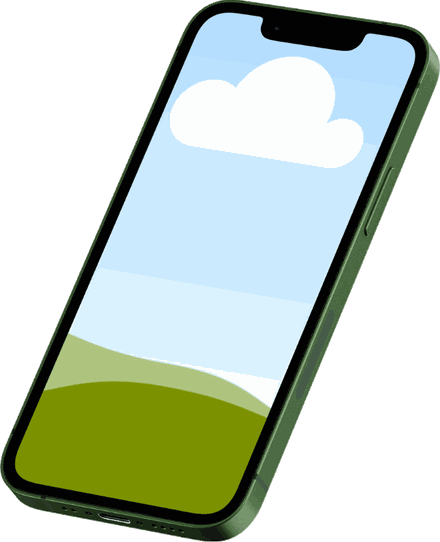
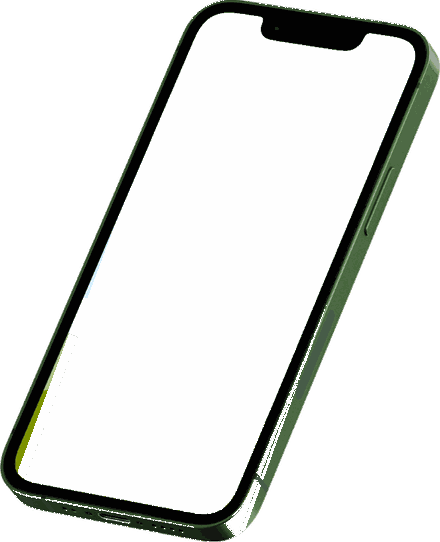
fix(вики): телефон в карточке встал в пустое место у списка шагов и не двигает текст
Прошлый заход был неправильный: телефон стоял колонкой на всю карточку и ужимал
заголовок с описанием. Текст важнее картинки — теперь витрина стоит В ОДНОЙ
СТРОКЕ со списком шагов, ровно в том пустом месте, которое остаётся справа от
коротких строк «1…8». Заголовок, описание, блок «Где вставлен» и кнопка снова во
всю ширину карточки.

Экран телефона сделан белым — как на образце. Красились не прямоугольником, а
пикселями обоев внутри четырёхугольника экрана: у экрана скруглённые углы, и
прямоугольник оставил бы по ним серпики старых обоев. Тёмное (вырез, кромка
стекла) не тронуто, иначе пропала бы «чёлка».

Значок приложения лежит на белом экране в той же плоскости, что и раньше:
наклон снят с самого рендера, поэтому плитка повторяет ракурс корпуса.

Проверено в браузере на 1440, 760 и 430 пикселях: описание занимает всю ширину,
телефон стоит у списка и ничего не сдвигает, на узкой карточке витрина уходит.

diff --git a/src/components/wiki/WikiTrainers.jsx b/src/components/wiki/WikiTrainers.jsx
@@ -138,8 +138,7 @@ export default function WikiTrainers({ base, headers, onOpenArticle = null }) {
                         const card = TRAINER_CARDS.find((c) => c.key === trainer.key);
                         const articles = usages?.[trainer.key] || [];
                         return (
-                            <article key={trainer.key} className={`${iosCard} flex gap-4 p-4`}>
-                              <div className="flex min-w-0 flex-1 flex-col gap-3">
+                            <article key={trainer.key} className={`${iosCard} flex flex-col gap-3 p-4`}>
                                 <header className="flex items-start gap-3">
                                     <div className="grid h-10 w-10 shrink-0 place-items-center rounded-2xl
                                                     bg-indigo-50 text-indigo-600">
@@ -167,13 +166,21 @@ export default function WikiTrainers({ base, headers, onOpenArticle = null }) {
 
                                 {/* Список шагов открытым: на этом экране он и есть содержание
                                     тренажёра — по нему решают, тот ли это тренажёр, который
-                                    нужен статье. */}
-                                <ol className="space-y-1 pl-5 text-[12.5px] leading-relaxed text-slate-500
-                                               [list-style:decimal]">
-                                    {(trainer.checklist || []).map((item, index) => (
-                                        <li key={`${index}-${item}`}>{item}</li>
-                                    ))}
-                                </ol>
+                                    нужен статье.
+
+                                    Телефон стоит В ОДНОЙ СТРОКЕ со списком, а не колонкой на всю
+                                    карточку: справа от коротких строк «1…8» и так пустует место,
+                                    а колонка ужимала бы заголовок и описание — текст важнее
+                                    картинки. */}
+                                <div className="flex items-center gap-4">
+                                    <ol className="min-w-0 flex-1 space-y-1 pl-5 text-[12.5px]
+                                                   leading-relaxed text-slate-500 [list-style:decimal]">
+                                        {(trainer.checklist || []).map((item, index) => (
+                                            <li key={`${index}-${item}`}>{item}</li>
+                                        ))}
+                                    </ol>
+                                    <TrainerShowcase icon={TRAINER_ICONS[trainer.key]} />
+                                </div>
 
                                 <div className="rounded-xl bg-slate-50 px-3 py-2.5">
                                     <div className="mb-1 flex items-center gap-1.5 text-[12px] font-medium text-slate-500">
@@ -218,9 +225,6 @@ export default function WikiTrainers({ base, headers, onOpenArticle = null }) {
                                 >
                                     <PlayCircle size={15} /> Пройти тренажёр
                                 </button>
-                              </div>
-
-                              <TrainerShowcase icon={TRAINER_ICONS[trainer.key]} />
                             </article>
                         );
                     })}

diff --git a/src/components/wiki/wiki-theme.css b/src/components/wiki/wiki-theme.css
@@ -649,8 +649,8 @@
     position: relative;
     flex: 0 0 auto;
     align-self: center;
-    width: 12rem;
-    max-width: 42%;
+    width: 10.5rem;
+    max-width: 45%;
 }
 
 .wiki-trainer-showcase__phone {
